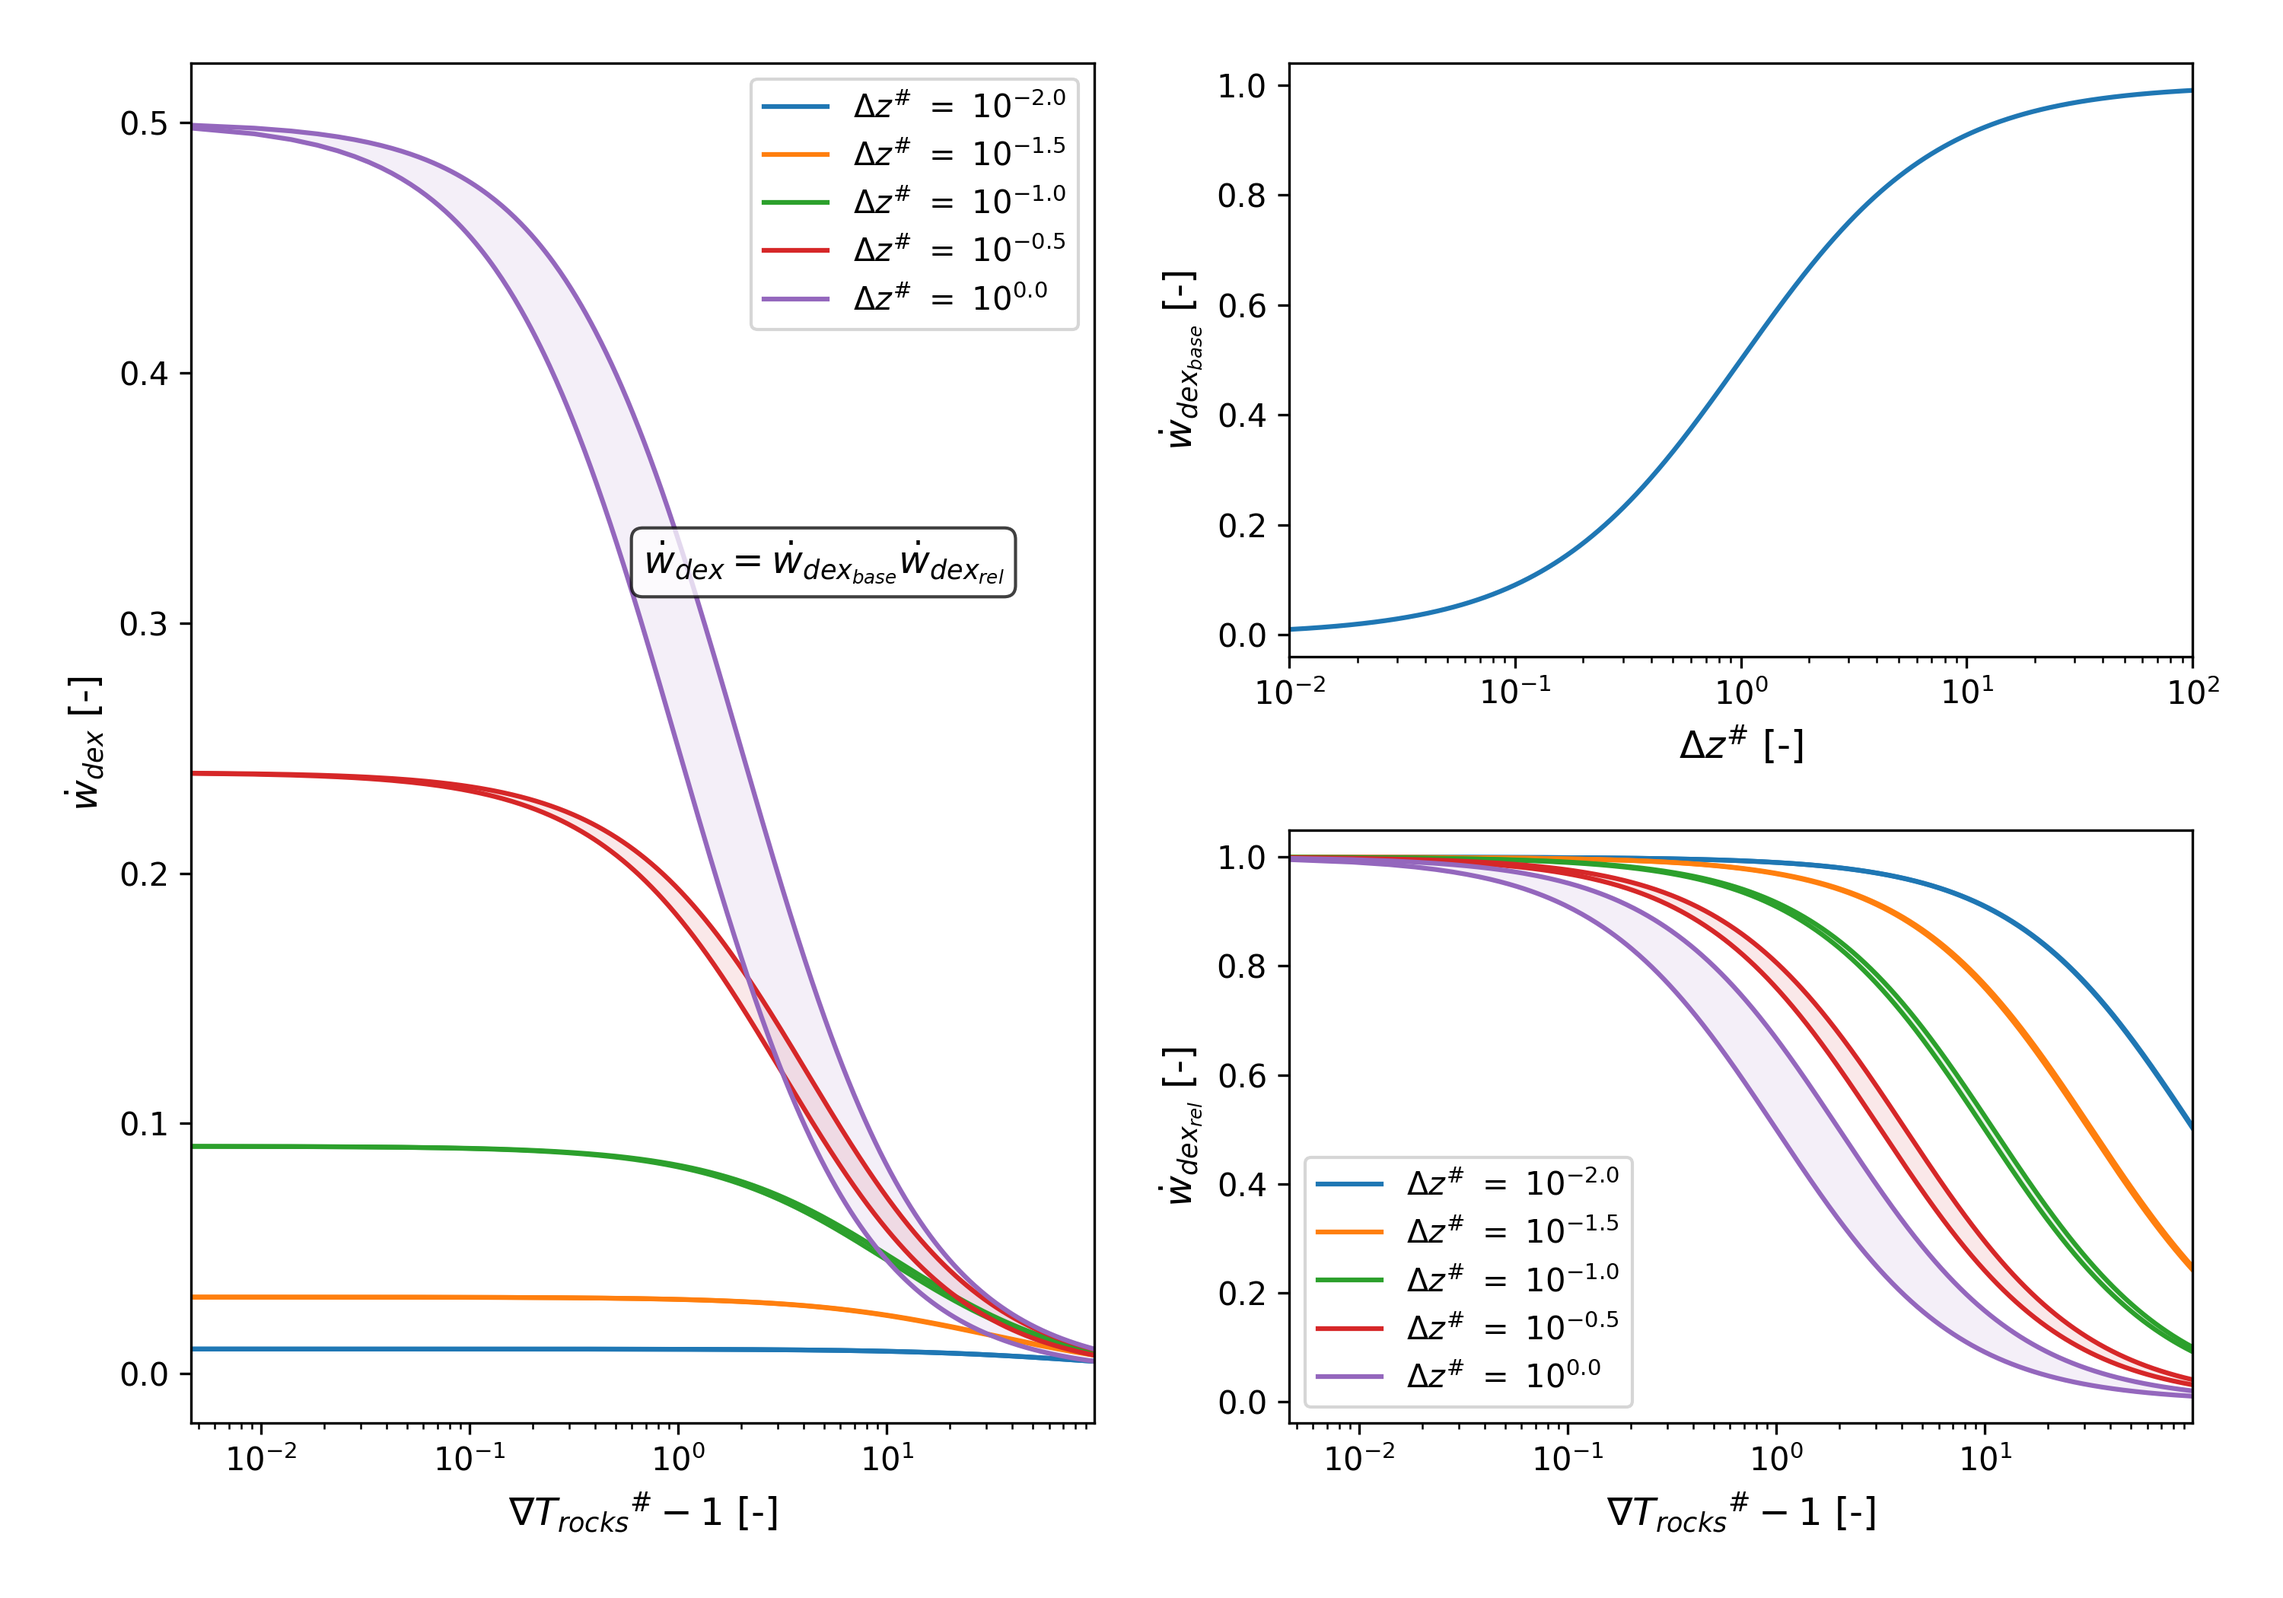
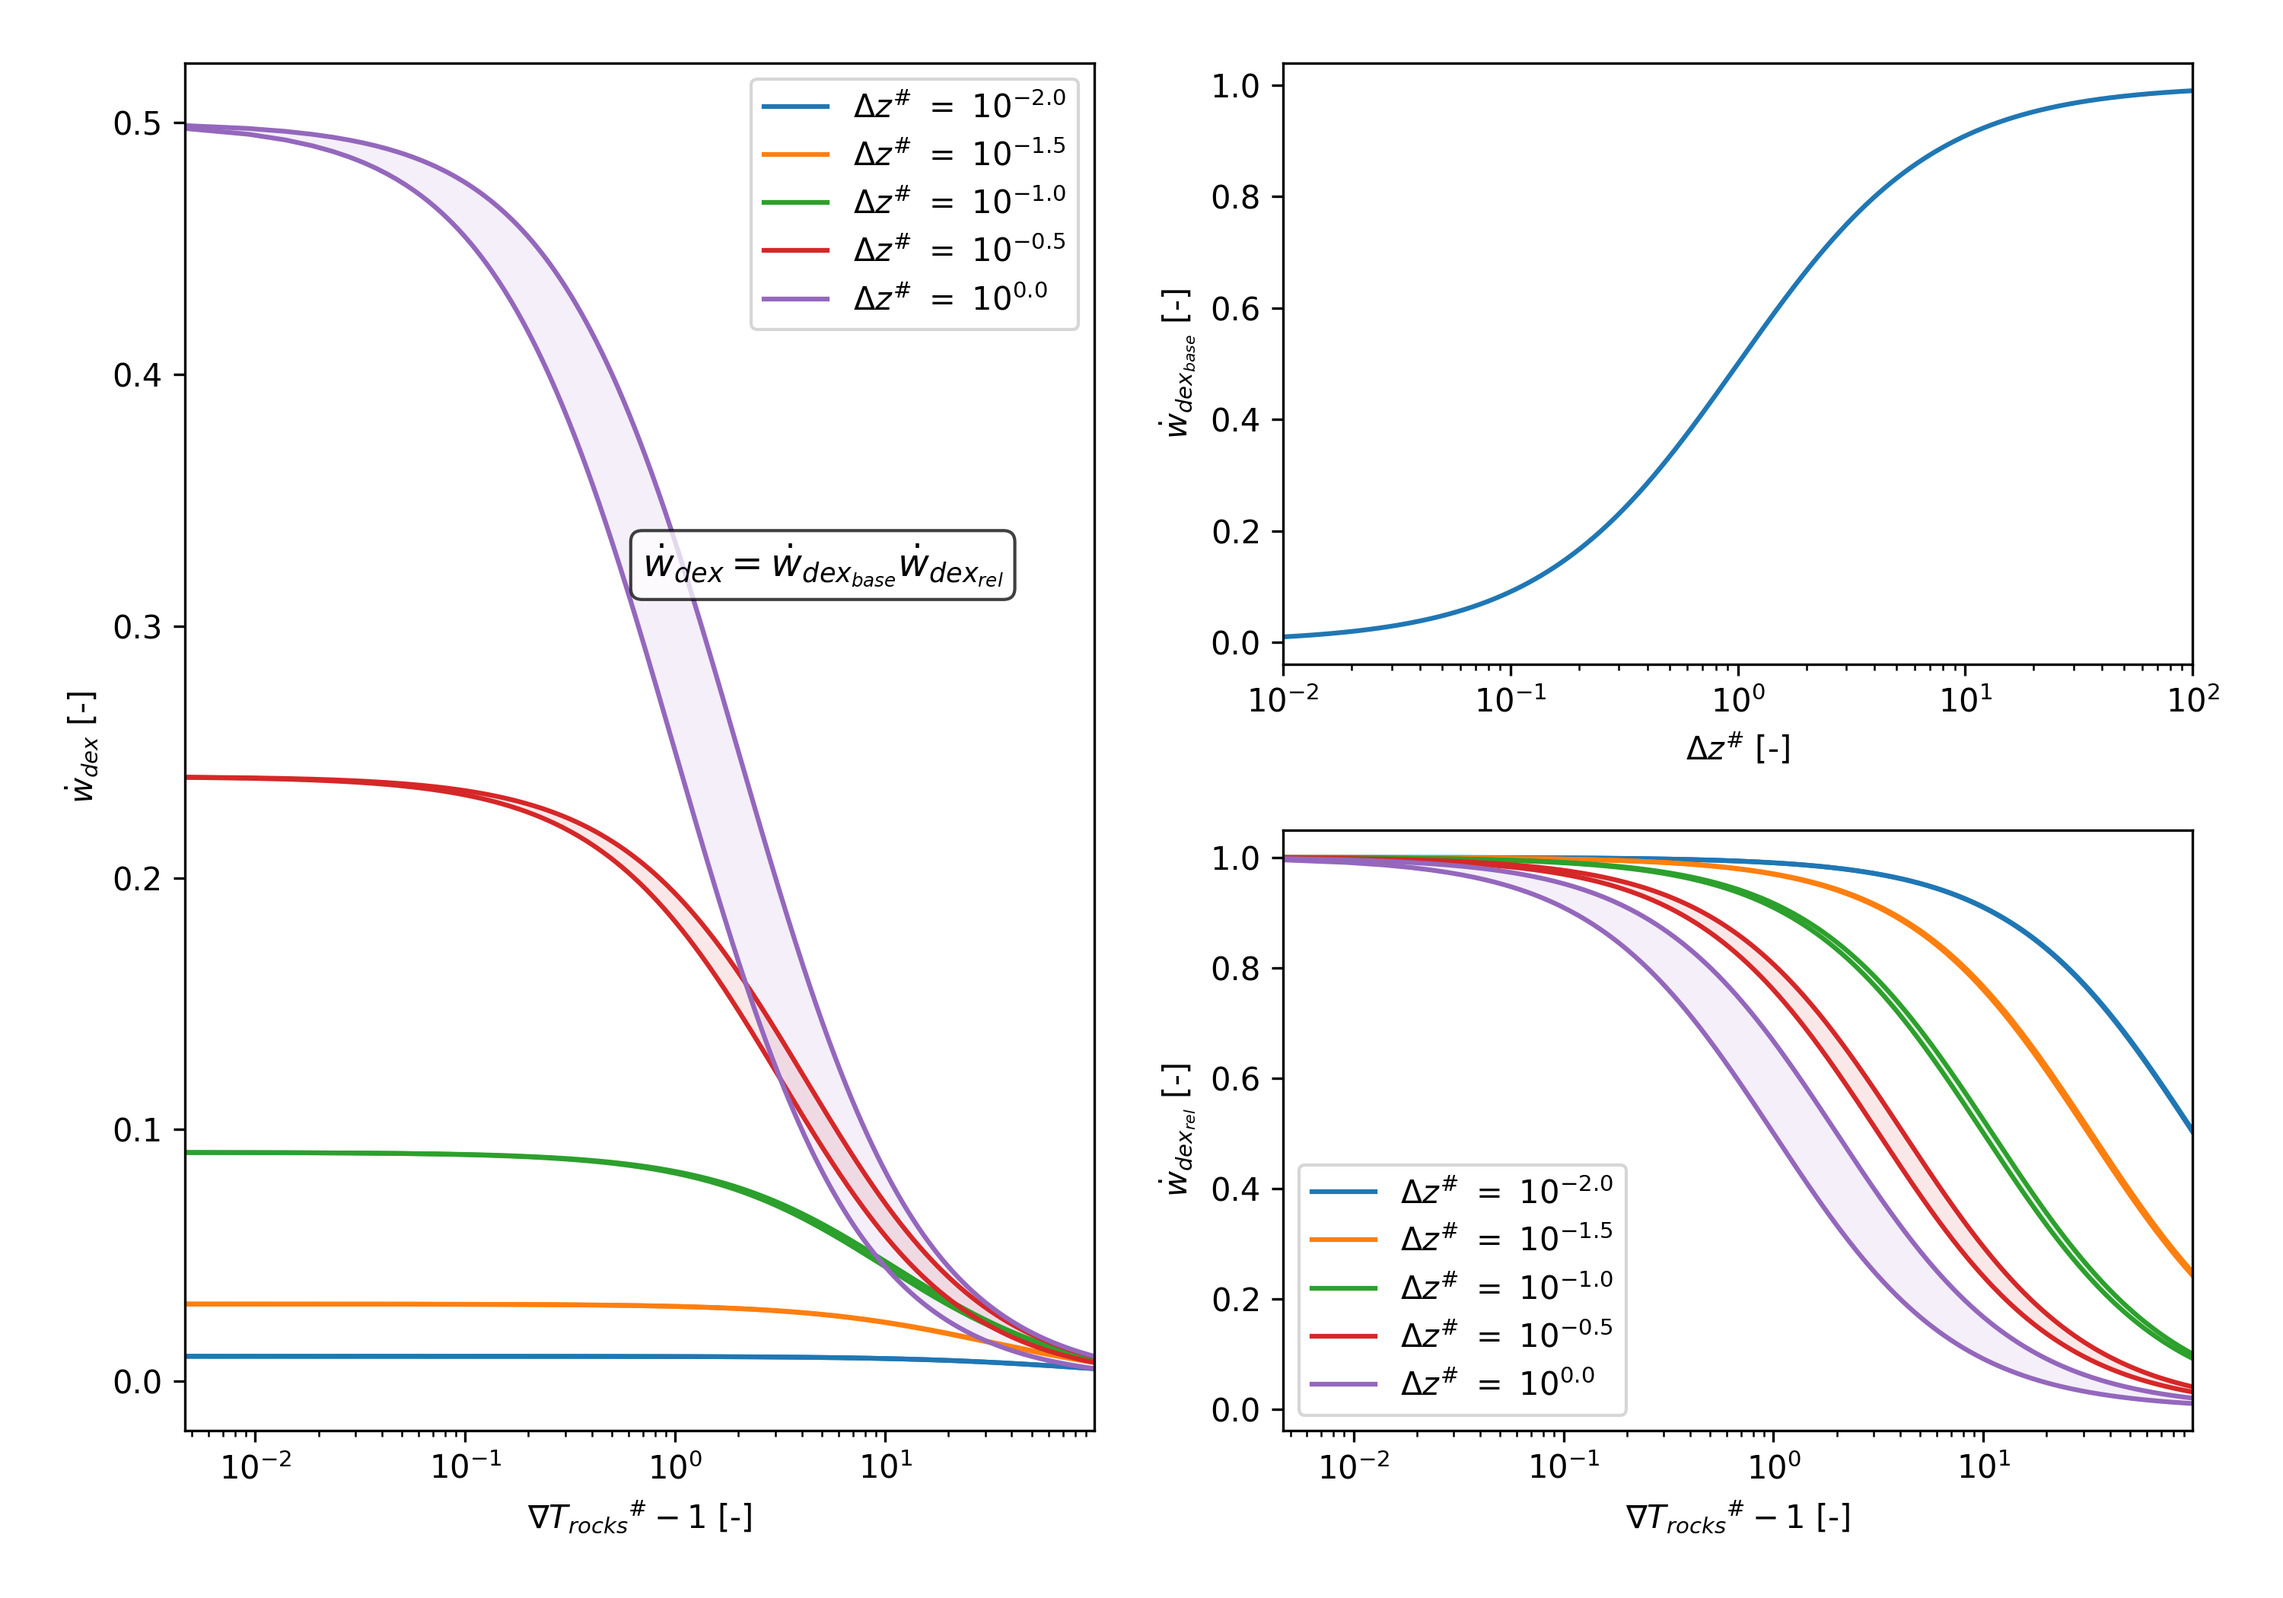
FreeFEM Analysis Completed

diff --git a/calculation/Pietro PhD Thesis/2 - Theoretical Analysis/1 - Ideal Gas or Liquid System/3 - Liquid - Ideal gas comparison.py b/calculation/Pietro PhD Thesis/2 - Theoretical Analysis/1 - Ideal Gas or Liquid System/3 - Liquid - Ideal gas comparison.py
@@ -50,9 +50,17 @@ colors = [
 ]
 
 label_str = "${{\\Delta z}}^{{\\#}}\\ =\\ 10^{{ {order} }}$"
-fig, axs = plt.subplots(1, 2, dpi=300)
-fig.set_size_inches(10, 4)
-lines = [list(), list()]
+fig, base_axs = plt.subplots(2, 2, dpi=300)
+fig.set_size_inches(10, 5)
+gs = base_axs[0, 1].get_gridspec()
+# remove the underlying axes
+for ax in base_axs[:, 1]:
+    ax.remove()
+
+axbig = fig.add_subplot(gs[:, 1])
+axs = [base_axs[0, 0], base_axs[1, 0], axbig]
+
+lines = [list(), list(), list()]
 x_values = grad_nd - 1
 
 for i in range(len(dz_nd_list)):
@@ -66,7 +74,8 @@ for i in range(len(dz_nd_list)):
     )
 
     axs[0].plot(x_values[i, :], spc_work_liq[i, :], "--", color=color)
-    axs[1].plot(x_values[i, :], ex_eta_liq[i, :], "--", color=color)
+    axs[1].plot(x_values[i, :], spc_ex_liq[i, :], "--", color=color)
+    axs[2].plot(x_values[i, :], ex_eta_liq[i, :], "--", color=color)
 
     lines[0].append(
 
@@ -86,6 +95,19 @@ for i in range(len(dz_nd_list)):
         axs[1].plot(
 
             x_values[i, :],
+            spc_ex_gas[i, :],
+            "-", label=label_curr,
+            color=color
+
+        )[0]
+
+    )
+
+    lines[2].append(
+
+        axs[2].plot(
+
+            x_values[i, :],
             ex_eta_gas[i, :],
             "-", label=label_curr,
             color=color
@@ -94,12 +116,15 @@ for i in range(len(dz_nd_list)):
 
     )
 
-y_names = ["${\\dot{w}}^{\\#}$ [-]", "${\\eta}_{ex}$ [-]"]
-legend_locs = [2, 6]
-axs[0].set_yscale("log")
+y_names = ["${\\dot{w}}^{\\#}$ [-]", "${\\dot{e}_x}^{\\#}$ [-]", "${\\eta}_{ex}$ [-]"]
+axs[0].get_xaxis().set_visible(False)
+
 for k in range(len(axs)):
 
     axs[k].set_xscale("log")
+    axs[k].set_ylabel(y_names[k])
+    axs[k].set_xlabel("${\\nabla T_{rocks}}^{\\#} - 1$ [-]")
+
     axs[k].set_xlim((
 
         np.min(x_values),
@@ -107,11 +132,20 @@ for k in range(len(axs)):
 
     ))
 
-    axs[k].set_ylabel(y_names[k])
-    axs[k].set_xlabel("${\\nabla T_{rocks}}^{\\#} - 1$ [-]")
-    axs[k].legend(handles=lines[k], fontsize="8", loc=legend_locs[k])
+    if not y_names[k] == y_names[-1]:
+        axs[k].set_yscale("log")
+        axs[k].set_ylim((
+
+            np.min(spc_ex_gas) / 2,
+            np.max(spc_ex_gas) * 2
+
+        ))
+
+    if not y_names[k] == y_names[1]:
+        axs[k].legend(handles=lines[k], fontsize="8")
 
 plt.tight_layout(pad=2)
+plt.subplots_adjust(hspace=0)
 plt.show()
 
 
@@ -203,8 +237,8 @@ x_values = [grad_nd.ravel() - 1, dz_nd_ext, grad_nd.ravel() - 1]
 for k in range(len(all_axs)):
 
     all_axs[k].set_xscale("log")
-    all_axs[k].set_xlabel(x_names[k], fontsize = 12)
-    all_axs[k].set_ylabel(y_names[k], fontsize = 12)
+    all_axs[k].set_xlabel(x_names[k])
+    all_axs[k].set_ylabel(y_names[k])
     all_axs[k].set_xlim((
 
         np.min(x_values[k]),
